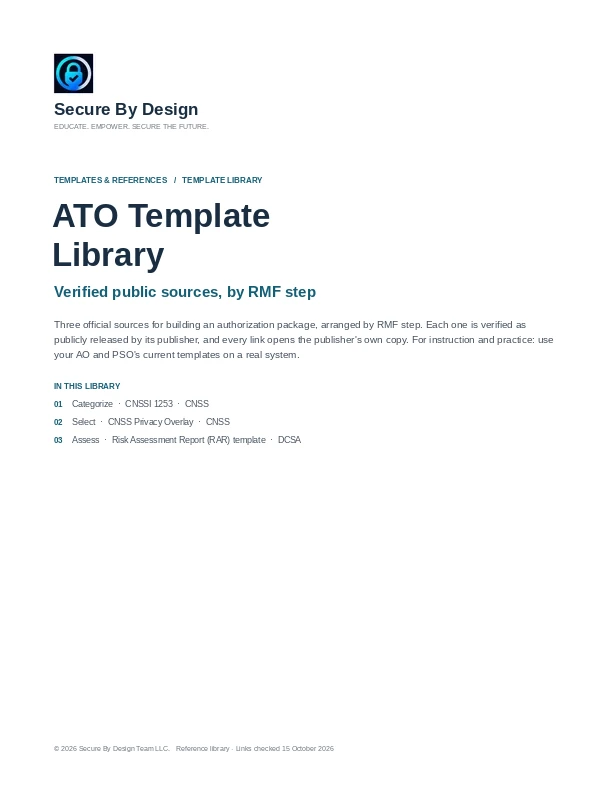
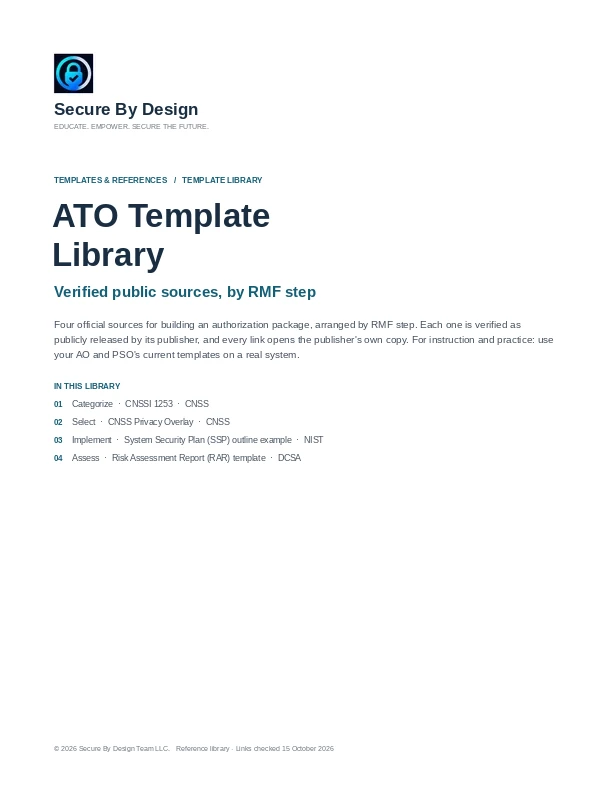
Add NIST's SSP outline example to the ATO Template Library (#71)
The owner asked to publish the System Security Plan source from the
public-template research. NIST SP 800-18 Rev. 2 (final, 30 June 2026)
ships a System Security Plan Outline Example as a DOCX on csrc.nist.gov,
open without sign-in and with no handling marking.

Add an Implement section with one entry linking NIST's DOCX and the
SP 800-18 Rev. 2 page (RMF S-4, S-6, I-2), name the four sources in the
tile and page text, redraw the cover, and pin the entry in the test.

Claude-Session: https://claude.ai/code/session_011gqg1suY3epAZn4KnRBHYo

Changed region(s): [[0.0931, 0.3939, 0.8382, 0.4242], [0.1242, 0.5455, 0.5278, 0.6061]]

diff --git a/app/training/ato-templates/page.tsx b/app/training/ato-templates/page.tsx
@@ -4,7 +4,7 @@ import './templates.css';
 import { sharePreview } from '../../share-preview';
 
 // The ATO Template Library: the Training Library's reference tile opens here. Data: content/ato-templates.json.
-const description = 'Official sources for building an authorization package, arranged by RMF step and verified as publicly released by their publishers: DCSA\'s Risk Assessment Report template, CNSSI 1253 and the CNSS Privacy Overlay.';
+const description = 'Official sources for building an authorization package, arranged by RMF step and verified as publicly released by their publishers: CNSSI 1253, the CNSS Privacy Overlay, NIST\'s System Security Plan outline and DCSA\'s Risk Assessment Report template.';
 export const metadata = {
   title: 'ATO Template Library',
   description,

diff --git a/AGENTS.md b/AGENTS.md
@@ -631,8 +631,8 @@ The owner asked to remove everything in the ATO Template Library and start over 
 
 The owner asked to remove everything from the ATO Template Library except the documents verified as publicly released. This supersedes the two ATO Template Library sections above wherever they differ: their entries, sections, statuses, edition notice, posted and adapted files, README and ZIP are gone. The tile, the Templates & References group, the page route (`/training/ato-templates`) and the shared components stay.
 
-- **What is listed (`content/ato-templates.json`):** three official links, by RMF step (`categorize`, `select`, `assess`). CNSSI 1253 (CNSS, 1 August 2022) and the CNSS Privacy Overlay (31 October 2024) are on the CNSS Instructions page with public download links. DCSA's Risk Assessment Report template (May 2019) is a PDF on dcsa.mil. Each was checked on 15 October 2026 on the publisher's own site, open without signing in.
+- **What is listed (`content/ato-templates.json`):** four official links, by RMF step (`categorize`, `select`, `implement`, `assess`). CNSSI 1253 (CNSS, 1 August 2022) and the CNSS Privacy Overlay (31 October 2024) are on the CNSS Instructions page with public download links. NIST's System Security Plan Outline Example (SP 800-18 Rev. 2 supplemental material, June 2026) is a DOCX on csrc.nist.gov; the owner asked for it after the public-template research on 15 October 2026. DCSA's Risk Assessment Report template (May 2019) is a PDF on dcsa.mil. Each was checked on 15 October 2026 on the publisher's own site, open without signing in.
 - **Removed:** every file in `public/training/library/ato-templates/` and every other entry (official links, adapted and restricted entries). The files were the owner's JSIG SSP, SCTM worksheet, POA&M, ISSM/ISSO appointment letter, continuous monitoring strategy and RAR, the ATO and ATC package checklist and DATO memo adaptations, `README.txt` and the ZIP. No official public copy of any of the owner's files was found. The JSIG RAR template is not DCSA's template. DCSA's is an expanded version, with a different system description, a risk matrix, a Security Control(s) column and a signature block; CDSE posts the same DCSA version. So the library links DCSA's copy instead of hosting the JSIG file.
-- **Rule:** add an entry only when an official publisher posts the document publicly without sign-in, and link to the publisher's copy rather than hosting a file. Do not restore the owner's files, the adaptations or the removed entries from git history unless the owner asks and an official public source is found. Never post the DAF ITCSC or the Sanitization Plan Review Checklist in any form. `tests/video-catalog.test.mjs` pins the three entries, requires .gov or .mil links, and fails if the files folder returns.
+- **Rule:** add an entry only when an official publisher posts the document publicly without sign-in, and link to the publisher's copy rather than hosting a file. Do not restore the owner's files, the adaptations or the removed entries from git history unless the owner asks and an official public source is found. Never post the DAF ITCSC or the Sanitization Plan Review Checklist in any form. `tests/video-catalog.test.mjs` pins the entries, requires .gov or .mil links, and fails if the files folder returns.
 - **Labels and layout:** `official` is the only status (`app/videos/template-labels.ts`). In place of the edition notice, the page says how entries were chosen and that the AO's and PSO's templates take precedence. The expanded tile lists the entries without the step explorer, counts or legend.
 - **Cover:** re-run `python3 scripts/prepare-library-cover.py` when entries change.
